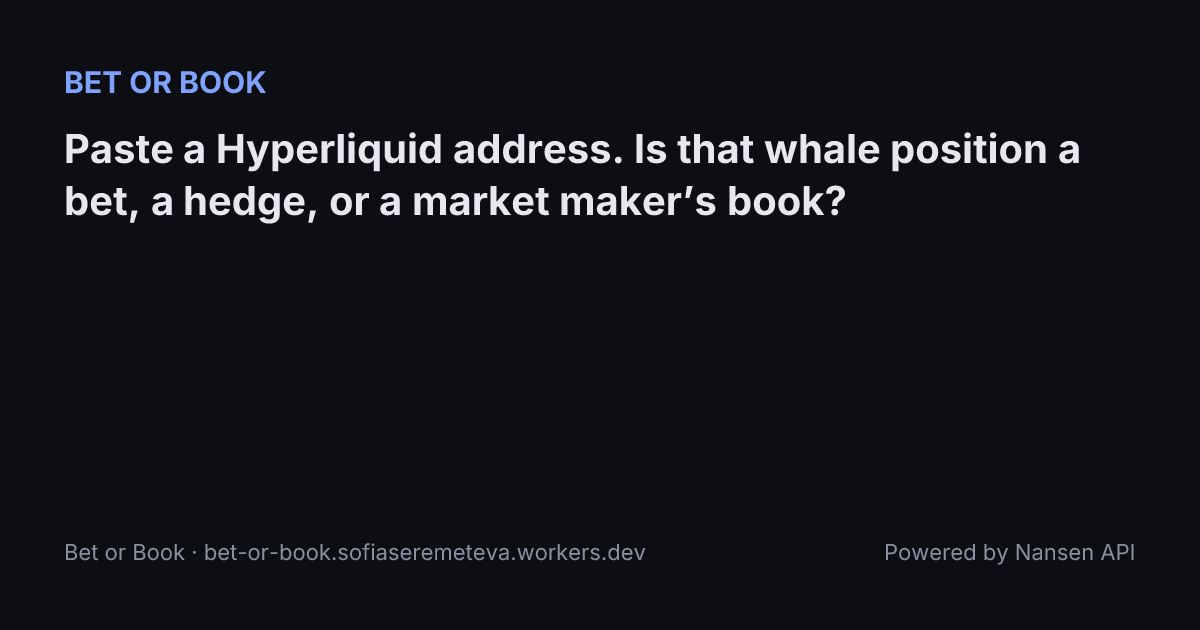
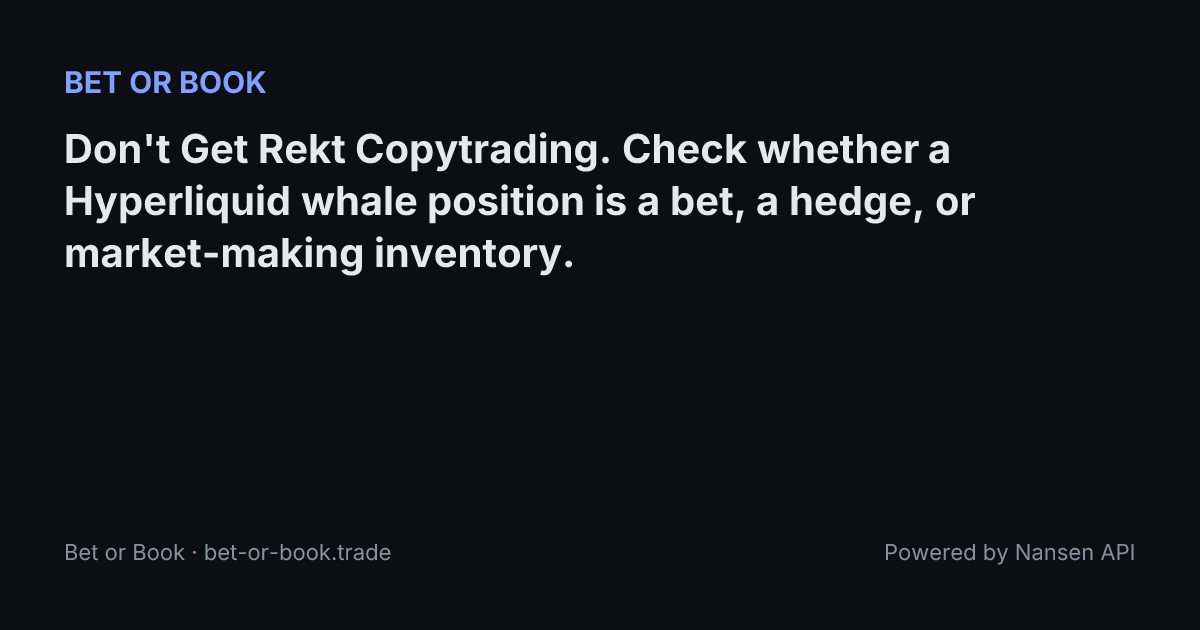
Serve Bet or Book on custom domain (#5)

Changed region(s): [[0.0308, 0.2111, 0.8942, 0.4524], [0.2775, 0.8444, 0.5242, 0.9048]]

diff --git a/scripts/generate-og-fallback.ts b/scripts/generate-og-fallback.ts
@@ -15,12 +15,12 @@ const data: OgCardData = {
   // - this generic card is not about any one verdict, so it keeps the same
   // brand-ish slot the old book-blue held before the palette went dark.
   accent: '#7fa2ff',
-  summary: 'Paste a Hyperliquid address. Is that whale position a bet, a hedge, or a market maker’s book?',
+  summary: "Don't Get Rekt Copytrading. Check whether a Hyperliquid whale position is a bet, a hedge, or market-making inventory.",
   // No reading behind this card, so there is no position to draw a
   // constellation for either.
   constellation: null,
   constellationStat: null,
-  footerLeft: 'bet-or-book.sofiaseremeteva.workers.dev',
+  footerLeft: 'bet-or-book.trade',
   // No reading behind this card, so no date and no caveat to give.
   provenance: '',
   limitText: null,

diff --git a/docs/submission-checklist.md b/docs/submission-checklist.md
@@ -11,12 +11,12 @@ The current FAQ requires **100+ API calls** within September 14-27. The campaign
 | Meaningful Nansen API use | Implemented: cross-dex positions, cross-chain balances and funding links affect the verdict |
 | Public GitHub repository | Confirmed PUBLIC on 26 September: https://github.com/Sofiia7/bet-or-book |
 | 100+ qualifying calls | Local ledger: 1,136 calls, 1,128 successful; account-side confirmation still needed |
-| Working demo | Application implemented; deployed URL: https://bet-or-book.sofiaseremeteva.workers.dev |
+| Working demo | Application implemented; deployed URL: https://bet-or-book.trade |
 | 30-60 second screen recording with live Nansen data visible | Still to record; updated shot list in demo-script.md |
 | X post with recording, @nansen_ai and GitHub link | Draft prepared in demo-script.md; not posted by this task |
 | Entry form: email, X post URL, GitHub link | Still to submit after posting |
 
-A purchased domain is not listed as an entry requirement. The existing workers.dev URL can be used.
+The custom domain is optional for entry; the workers.dev URL remains available as a fallback.
 
 ## Technical release checks
 

diff --git a/docs/demo-script.md b/docs/demo-script.md
@@ -2,7 +2,7 @@
 
 Updated for the landing page, constellation diagram, Full analysis and Explore on 26 September 2026.
 
-Use the deployed site: https://bet-or-book.sofiaseremeteva.workers.dev
+Use the deployed site: https://bet-or-book.trade
 
 Before recording, hide notifications and credentials. If operator access is needed, configure /#operator before starting the recording. Copy this example address: `0xb83de012dba672c76a7dbbbf3e459cb59d7d6e36`.
 
@@ -29,6 +29,6 @@ Attach the recording. This draft avoids stale dollar amounts:
 >
 > Built with @nansen_ai
 > https://github.com/Sofiia7/bet-or-book
-> https://bet-or-book.sofiaseremeteva.workers.dev
+> https://bet-or-book.trade
 
 After posting, submit the X post URL, public GitHub URL and your email through https://nansen-ai.typeform.com/meridian-submit before 27 September 2026, 23:59 UTC.

diff --git a/README.md b/README.md
@@ -2,7 +2,7 @@
 
 **Paste a Hyperliquid address. See what actually stands behind that whale position - a bet, a hedge, or a market maker's book.**
 
-**Live: [bet-or-book.sofiaseremeteva.workers.dev](https://bet-or-book.sofiaseremeteva.workers.dev)**
+**Live: [bet-or-book.trade](https://bet-or-book.trade)**
 
 Built for the [Nansen Meridian Buildathon](https://www.nansen.ai/campaigns/meridian-buildathon) (14-27 September 2026). Powered by Nansen API.
 
